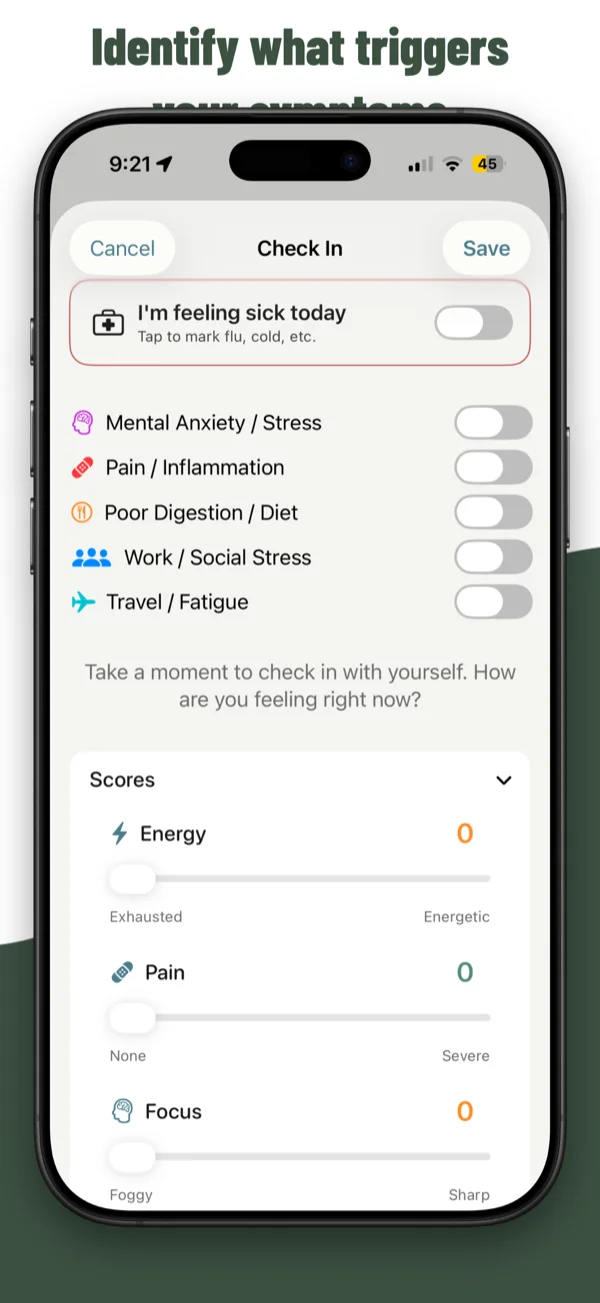
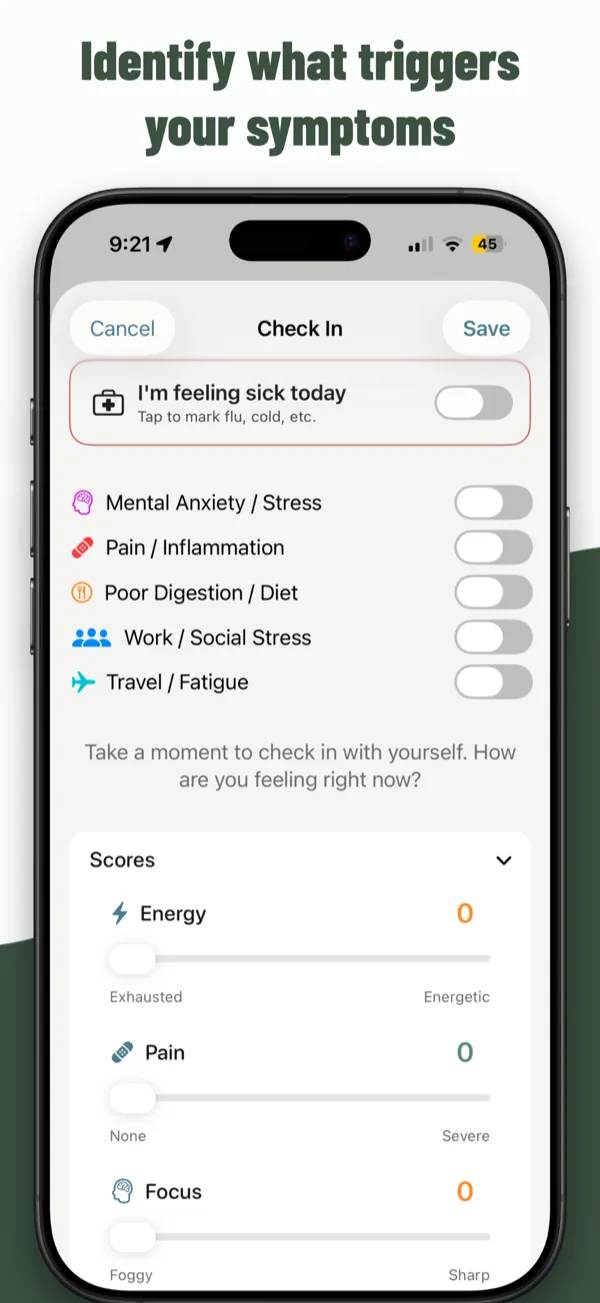
Update My Health Keeper screenshots with newly optimized assets and adjust showcase references

diff --git a/myhealthkeeper/en/index.html b/myhealthkeeper/en/index.html
@@ -344,8 +344,8 @@
                 <div class="flex-1 relative flex justify-center w-full max-w-sm lg:max-w-md">
                     <div class="absolute -inset-4 bg-emerald-500/20 blur-3xl rounded-full"></div>
                     <div class="relative bg-white dark:bg-zinc-800 rounded-[2.8rem] p-3 shadow-2xl border-2 border-gray-200 dark:border-zinc-700">
-                        <div class="bg-black rounded-[2.3rem] overflow-hidden border border-gray-800 aspect-[600/1299] max-w-[290px] mx-auto">
-                            <img src="../screen1.webp" width="600" height="1299" alt="My Health Keeper - Main Health Dashboard" class="w-full h-full object-cover">
+                        <div class="bg-black rounded-[2.3rem] overflow-hidden border border-gray-800 aspect-[600/1303] max-w-[290px] mx-auto">
+                            <img src="../screen1.webp" width="600" height="1303" alt="My Health Keeper - Main Health Dashboard" class="w-full h-full object-cover">
                         </div>
                     </div>
                 </div>
@@ -490,7 +490,7 @@
         <section class="py-20 bg-white dark:bg-[#121214] border-t border-gray-200 dark:border-gray-800">
             <div class="max-w-7xl mx-auto px-6 space-y-24">
 
-                <!-- Showcase 1: AI Chat (screen2) -->
+                <!-- Showcase 1: AI Chat (screen5) -->
                 <div class="flex flex-col lg:flex-row items-center gap-12 lg:gap-16">
                     <div class="flex-1 space-y-6 text-center lg:text-left">
                         <div class="inline-flex items-center space-x-2 px-3 py-1 rounded-full bg-emerald-500/10 text-emerald-700 dark:text-emerald-300 text-xs font-bold uppercase tracking-wider">
@@ -511,8 +511,8 @@
                     </div>
                     <div class="flex-1 flex justify-center w-full max-w-sm">
                         <div class="relative bg-white dark:bg-zinc-800 rounded-[2.8rem] p-3 shadow-2xl border-2 border-gray-200 dark:border-zinc-700">
-                            <div class="bg-black rounded-[2.3rem] overflow-hidden border border-gray-800 aspect-[600/1299] max-w-[280px] mx-auto">
-                                <img src="../screen2.webp" width="600" height="1299" alt="My Health Keeper - AI Health Assistant" class="w-full h-full object-cover">
+                            <div class="bg-black rounded-[2.3rem] overflow-hidden border border-gray-800 aspect-[600/1303] max-w-[280px] mx-auto">
+                                <img src="../screen5.webp" width="600" height="1303" alt="My Health Keeper - AI Health Assistant" class="w-full h-full object-cover">
                             </div>
                         </div>
                     </div>
@@ -539,8 +539,8 @@
                     </div>
                     <div class="flex-1 flex justify-center w-full max-w-sm">
                         <div class="relative bg-white dark:bg-zinc-800 rounded-[2.8rem] p-3 shadow-2xl border-2 border-gray-200 dark:border-zinc-700">
-                            <div class="bg-black rounded-[2.3rem] overflow-hidden border border-gray-800 aspect-[600/1299] max-w-[280px] mx-auto">
-                                <img src="../screen3.webp" width="600" height="1299" alt="My Health Keeper - Document extraction" class="w-full h-full object-cover">
+                            <div class="bg-black rounded-[2.3rem] overflow-hidden border border-gray-800 aspect-[600/1303] max-w-[280px] mx-auto">
+                                <img src="../screen3.webp" width="600" height="1303" alt="My Health Keeper - Document extraction" class="w-full h-full object-cover">
                             </div>
                         </div>
                     </div>
@@ -567,14 +567,14 @@
                     </div>
                     <div class="flex-1 flex justify-center w-full max-w-sm">
                         <div class="relative bg-white dark:bg-zinc-800 rounded-[2.8rem] p-3 shadow-2xl border-2 border-gray-200 dark:border-zinc-700">
-                            <div class="bg-black rounded-[2.3rem] overflow-hidden border border-gray-800 aspect-[600/1299] max-w-[280px] mx-auto">
-                                <img src="../screen4.webp" width="600" height="1299" alt="My Health Keeper - Medication and schedules" class="w-full h-full object-cover">
+                            <div class="bg-black rounded-[2.3rem] overflow-hidden border border-gray-800 aspect-[600/1303] max-w-[280px] mx-auto">
+                                <img src="../screen4.webp" width="600" height="1303" alt="My Health Keeper - Medication and schedules" class="w-full h-full object-cover">
                             </div>
                         </div>
                     </div>
                 </div>
 
-                <!-- Showcase 4: Environment & Metrics (screen5) -->
+                <!-- Showcase 4: Environment & Metrics (screen2) -->
                 <div class="flex flex-col lg:flex-row-reverse items-center gap-12 lg:gap-16">
                     <div class="flex-1 space-y-6 text-center lg:text-left">
                         <div class="inline-flex items-center space-x-2 px-3 py-1 rounded-full bg-emerald-500/10 text-emerald-700 dark:text-emerald-300 text-xs font-bold uppercase tracking-wider">
@@ -595,8 +595,8 @@
                     </div>
                     <div class="flex-1 flex justify-center w-full max-w-sm">
                         <div class="relative bg-white dark:bg-zinc-800 rounded-[2.8rem] p-3 shadow-2xl border-2 border-gray-200 dark:border-zinc-700">
-                            <div class="bg-black rounded-[2.3rem] overflow-hidden border border-gray-800 aspect-[600/1299] max-w-[280px] mx-auto">
-                                <img src="../screen5.webp" width="600" height="1299" alt="My Health Keeper - Environmental factors and metrics" class="w-full h-full object-cover">
+                            <div class="bg-black rounded-[2.3rem] overflow-hidden border border-gray-800 aspect-[600/1303] max-w-[280px] mx-auto">
+                                <img src="../screen2.webp" width="600" height="1303" alt="My Health Keeper - Environmental factors and metrics" class="w-full h-full object-cover">
                             </div>
                         </div>
                     </div>

diff --git a/myhealthkeeper/index.html b/myhealthkeeper/index.html
@@ -491,7 +491,7 @@
         <section class="py-20 bg-white dark:bg-[#121214] border-t border-gray-200 dark:border-gray-800">
             <div class="max-w-7xl mx-auto px-6 space-y-24">
 
-                <!-- Showcase 1: Asistente IA (screen2) -->
+                <!-- Showcase 1: Asistente IA (screen5) -->
                 <div class="flex flex-col lg:flex-row items-center gap-12 lg:gap-16">
                     <div class="flex-1 space-y-6 text-center lg:text-left">
                         <div class="inline-flex items-center space-x-2 px-3 py-1 rounded-full bg-emerald-500/10 text-emerald-700 dark:text-emerald-300 text-xs font-bold uppercase tracking-wider">
@@ -512,8 +512,8 @@
                     </div>
                     <div class="flex-1 flex justify-center w-full max-w-sm">
                         <div class="relative bg-white dark:bg-zinc-800 rounded-[2.8rem] p-3 shadow-2xl border-2 border-gray-200 dark:border-zinc-700">
-                            <div class="bg-black rounded-[2.3rem] overflow-hidden border border-gray-800 aspect-[600/1299] max-w-[280px] mx-auto">
-                                <img src="screen2.webp" width="600" height="1299" alt="My Health Keeper - Asistente IA de Salud" class="w-full h-full object-cover">
+                            <div class="bg-black rounded-[2.3rem] overflow-hidden border border-gray-800 aspect-[600/1303] max-w-[280px] mx-auto">
+                                <img src="screen5.webp" width="600" height="1303" alt="My Health Keeper - Asistente IA de Salud" class="w-full h-full object-cover">
                             </div>
                         </div>
                     </div>
@@ -540,8 +540,8 @@
                     </div>
                     <div class="flex-1 flex justify-center w-full max-w-sm">
                         <div class="relative bg-white dark:bg-zinc-800 rounded-[2.8rem] p-3 shadow-2xl border-2 border-gray-200 dark:border-zinc-700">
-                            <div class="bg-black rounded-[2.3rem] overflow-hidden border border-gray-800 aspect-[600/1299] max-w-[280px] mx-auto">
-                                <img src="screen3.webp" width="600" height="1299" alt="My Health Keeper - Extracción de informes médicos" class="w-full h-full object-cover">
+                            <div class="bg-black rounded-[2.3rem] overflow-hidden border border-gray-800 aspect-[600/1303] max-w-[280px] mx-auto">
+                                <img src="screen3.webp" width="600" height="1303" alt="My Health Keeper - Extracción de informes médicos" class="w-full h-full object-cover">
                             </div>
                         </div>
                     </div>
@@ -568,14 +568,14 @@
                     </div>
                     <div class="flex-1 flex justify-center w-full max-w-sm">
                         <div class="relative bg-white dark:bg-zinc-800 rounded-[2.8rem] p-3 shadow-2xl border-2 border-gray-200 dark:border-zinc-700">
-                            <div class="bg-black rounded-[2.3rem] overflow-hidden border border-gray-800 aspect-[600/1299] max-w-[280px] mx-auto">
-                                <img src="screen4.webp" width="600" height="1299" alt="My Health Keeper - Medicación y horarios" class="w-full h-full object-cover">
+                            <div class="bg-black rounded-[2.3rem] overflow-hidden border border-gray-800 aspect-[600/1303] max-w-[280px] mx-auto">
+                                <img src="screen4.webp" width="600" height="1303" alt="My Health Keeper - Medicación y horarios" class="w-full h-full object-cover">
                             </div>
                         </div>
                     </div>
                 </div>
 
-                <!-- Showcase 4: Métricas y entorno (screen5) -->
+                <!-- Showcase 4: Métricas y entorno (screen2) -->
                 <div class="flex flex-col lg:flex-row-reverse items-center gap-12 lg:gap-16">
                     <div class="flex-1 space-y-6 text-center lg:text-left">
                         <div class="inline-flex items-center space-x-2 px-3 py-1 rounded-full bg-emerald-500/10 text-emerald-700 dark:text-emerald-300 text-xs font-bold uppercase tracking-wider">
@@ -596,8 +596,8 @@
                     </div>
                     <div class="flex-1 flex justify-center w-full max-w-sm">
                         <div class="relative bg-white dark:bg-zinc-800 rounded-[2.8rem] p-3 shadow-2xl border-2 border-gray-200 dark:border-zinc-700">
-                            <div class="bg-black rounded-[2.3rem] overflow-hidden border border-gray-800 aspect-[600/1299] max-w-[280px] mx-auto">
-                                <img src="screen5.webp" width="600" height="1299" alt="My Health Keeper - Métricas y factores ambientales" class="w-full h-full object-cover">
+                            <div class="bg-black rounded-[2.3rem] overflow-hidden border border-gray-800 aspect-[600/1303] max-w-[280px] mx-auto">
+                                <img src="screen2.webp" width="600" height="1303" alt="My Health Keeper - Métricas y factores ambientales" class="w-full h-full object-cover">
                             </div>
                         </div>
                     </div>
